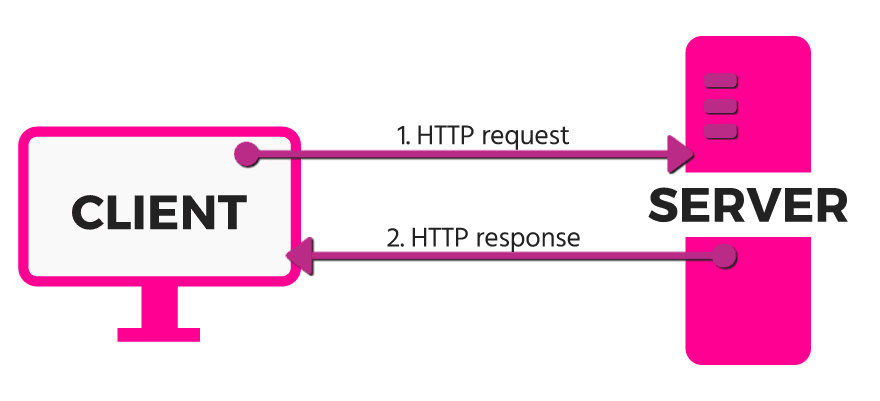
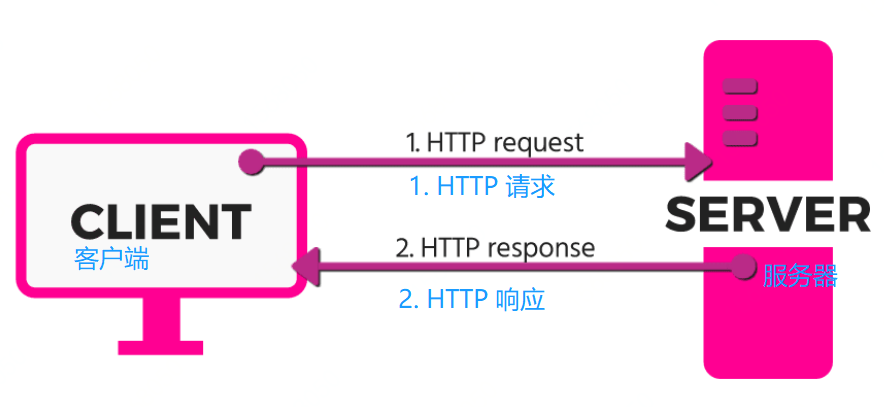
+10%

Changed region(s): [[0.0, 0.0898, 0.9818, 0.9576]]

diff --git a/http/为什么要了解HTTP.md b/http/为什么要了解HTTP.md
@@ -3,6 +3,27 @@
 原作信息：by Devon Campbell. Dec 15 '18 Originally published at raddevon.com on Dec 14, 2018  
 关键词：HTTP ,BEGINNERS
 ***
-正文：
-> HTTP are the four letters at the beginning of your URLs, right? That’s all you really have to know about it to build for the web, but, just like understanding binary, it can help you understand problems you otherwise wouldn’t. It’s not required material, but it makes you a more well-rounded developer.
+正文：  
+> HTTP are the four letters at the beginning of your URLs, right? That’s all you really have to know about it to build for the web, but, just like [understanding binary](https://raddevon.com/articles/the-basics-of-binary-and-other-number-systems-for-web-developers/), it can help you understand problems you otherwise wouldn’t. It’s not required material, but it makes you a more well-rounded developer.  
 
+“HTTP”是URLs地址开头的前四个字母，对吧？这就是你构建网站所必须要知道它的原因。就像[理解二进制(binary)](https://raddevon.com/articles/the-basics-of-binary-and-other-number-systems-for-web-developers/)一样，它也会帮助你理解你在其他方面不会理解的问题。他不是你必须要掌握的知识点(material:材质、物料)，但是理解他会使你成为一个更全面(well-rounded)的开发者。
+
+> Since it’s the primary communication protocol our software will be using, let’s learn a little about HTTP!
+
+作为我们软件所必须要遵循的基本通信协议(communication protocol)，让我们来学习一下HTTP吧！
+
+### 什么是HTTP？(What is HTTP?)
+> HTTP stands for hypertext transfer protocol. That’s a set of rules (protocol) for sending and receiving (transfer) web pages (hypertext). Even though it’s still called HTTP, it’s now used for sending lots of things besides hypertext — for example, JSON and images.
+
+HTTP就是超文本传输协议(Hypertext Transfer Protocol)，他是一个为发送和接收（传输）web页面（超文本）而设定的规则（协议）。尽管它被称作超文本传输协议(HTTP)，但它还可以被用来发送许多除超文本以外的其他内容 - 比如，JSON和images。
+
+### HTTP是如何工作的？(How does HTTP work?)
+![HTTP是如何工作的？](./images/http-flowchart.png)
+
+> HTTP communication happens between a client and a server. The client makes the HTTP request, and the server responds to it. Your web browser is an HTTP client. When you visit a web page, your browser sends an HTTP request to a server which sends a response. It’s (almost) that simple.
+
+HTTP通信发生在客户端和服务器之间。客户端发起HTTP请求，服务器响应客户端的请求。你的web浏览器就是一个HTTP客户端。当你浏览一个web页面的时候，你的浏览器发送一个HTTP请求到一个能响应的服务器上，它（几乎）就是这么简单。
+
+> Actually, a single web page is usually comprised of multiple requests. What usually happens is a request is made for some HTML, and the server responds with the HTML. The browser starts rendering the HTML and makes additional requests for any other resources it needs to render the page — like Javascript files, CSS files, and images.
+
+事实上，

diff --git a/README.md b/README.md
@@ -10,3 +10,7 @@ http | 1. [【译】为什么要了解HTTP](./http/为什么要了解HTTP.md) |H
 ## 分支命名规则
 主分支名_主要内容关键词_作者名首字母_年月日  
 比如：master_http_gjf_20190809
+
+## 感谢
+自发组织的自愿文档翻译行动，欢迎感兴趣的大佬可以加入一同携手进步！
+<a href="https://github.com/xingorg1/To-translate-documents/graphs/contributors"><img src="https://opencollective.com/reixs/contributors.svg?width=890" /></a>
